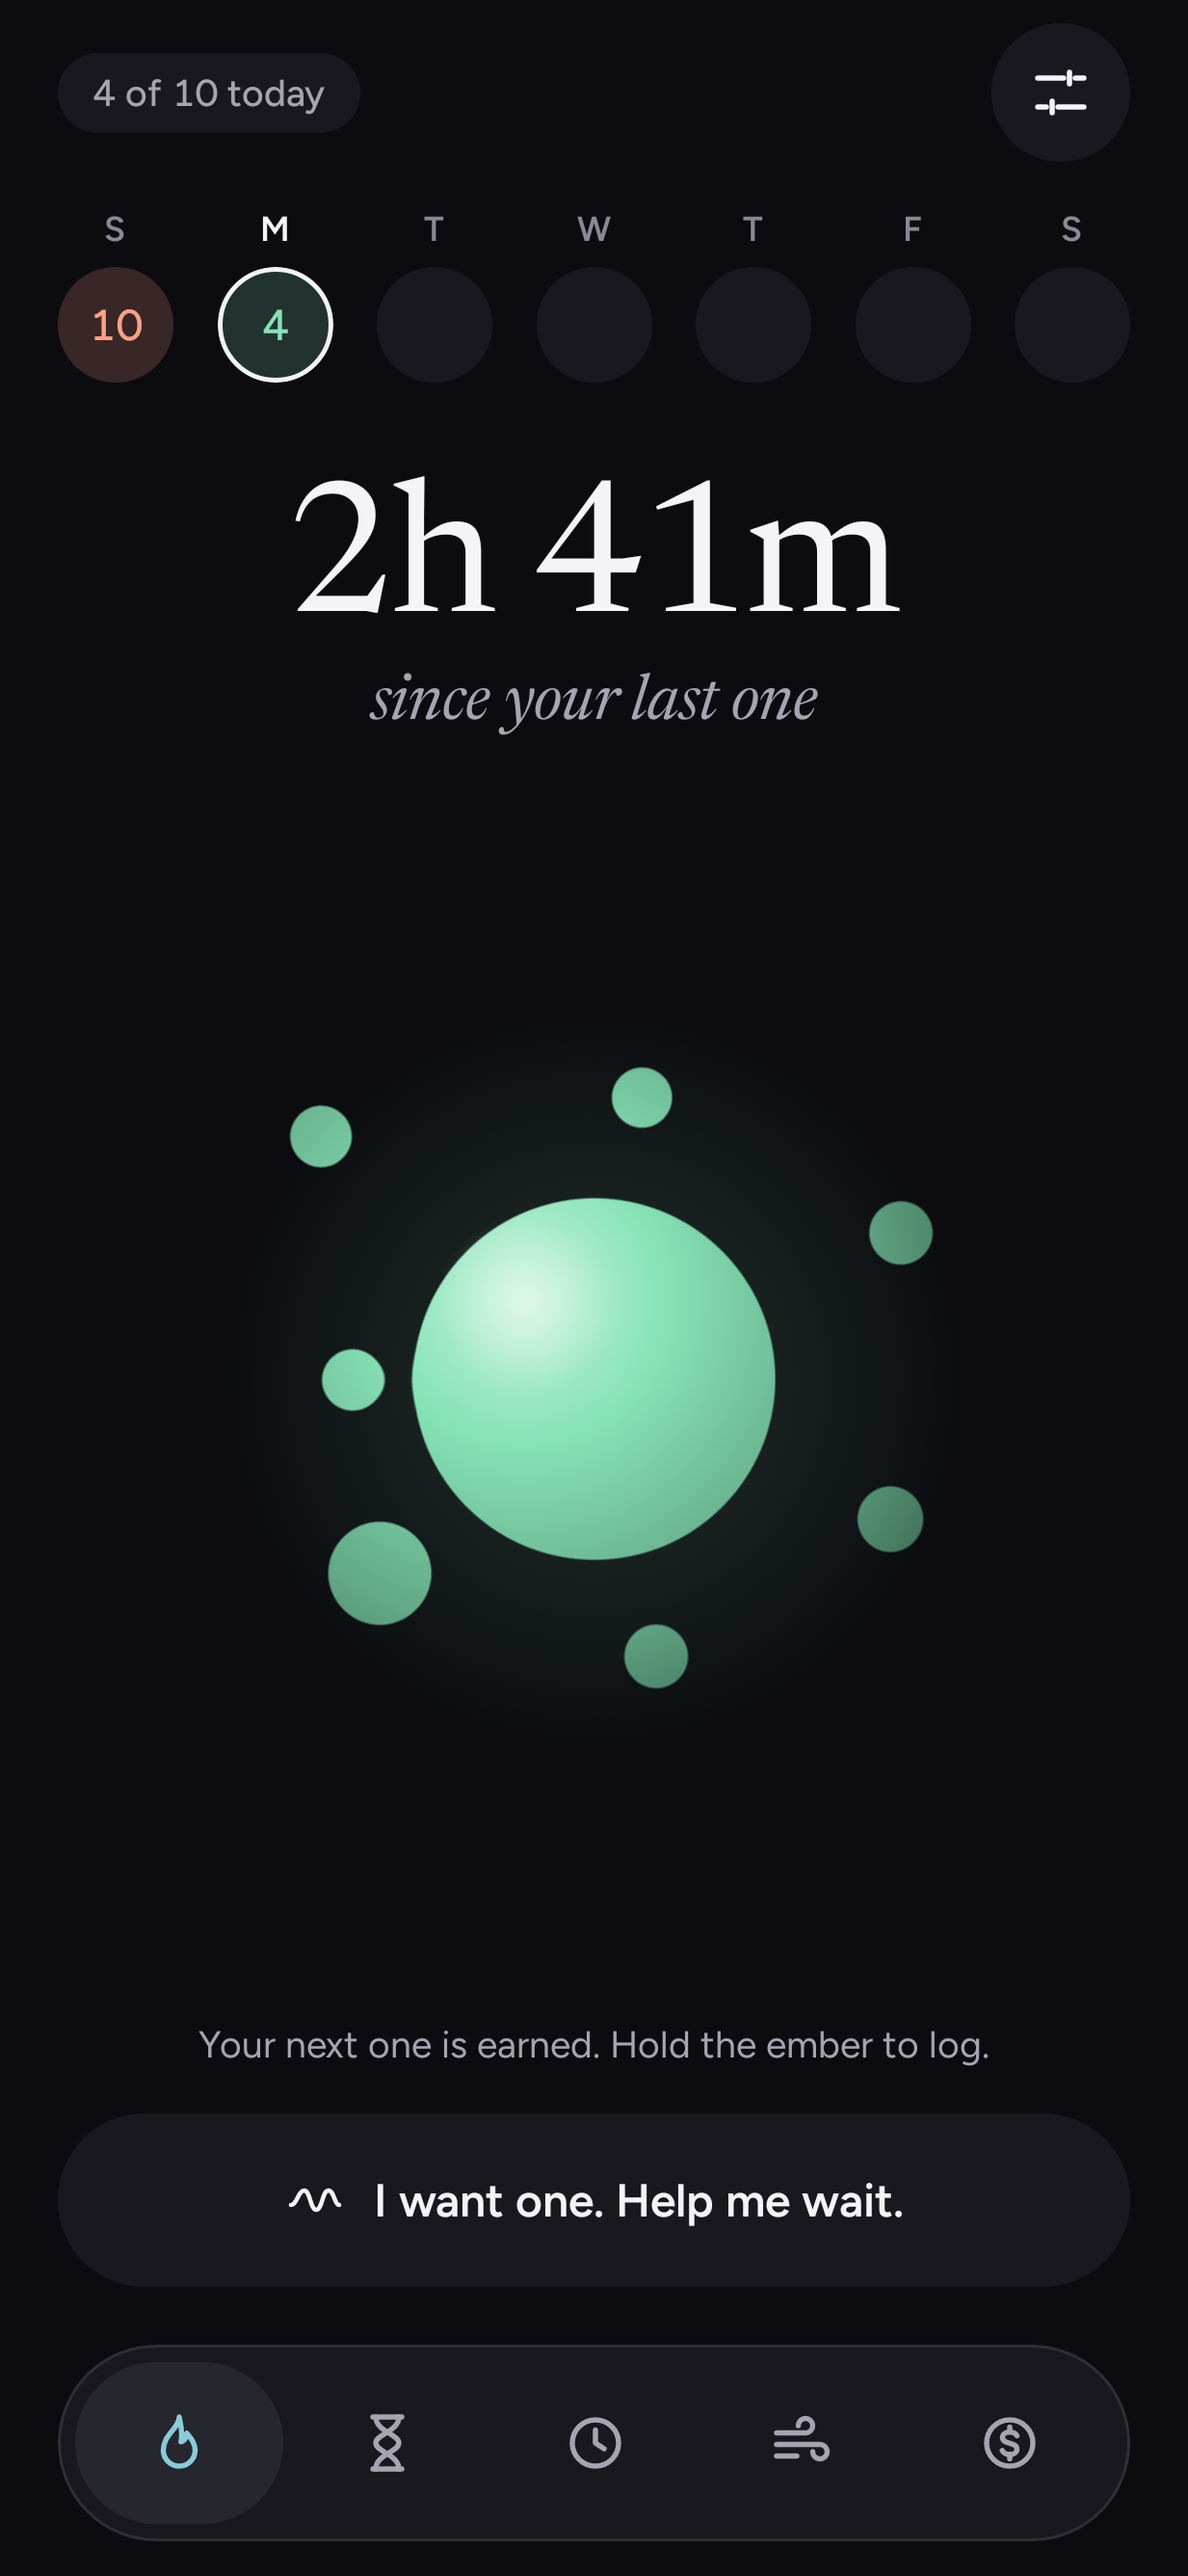
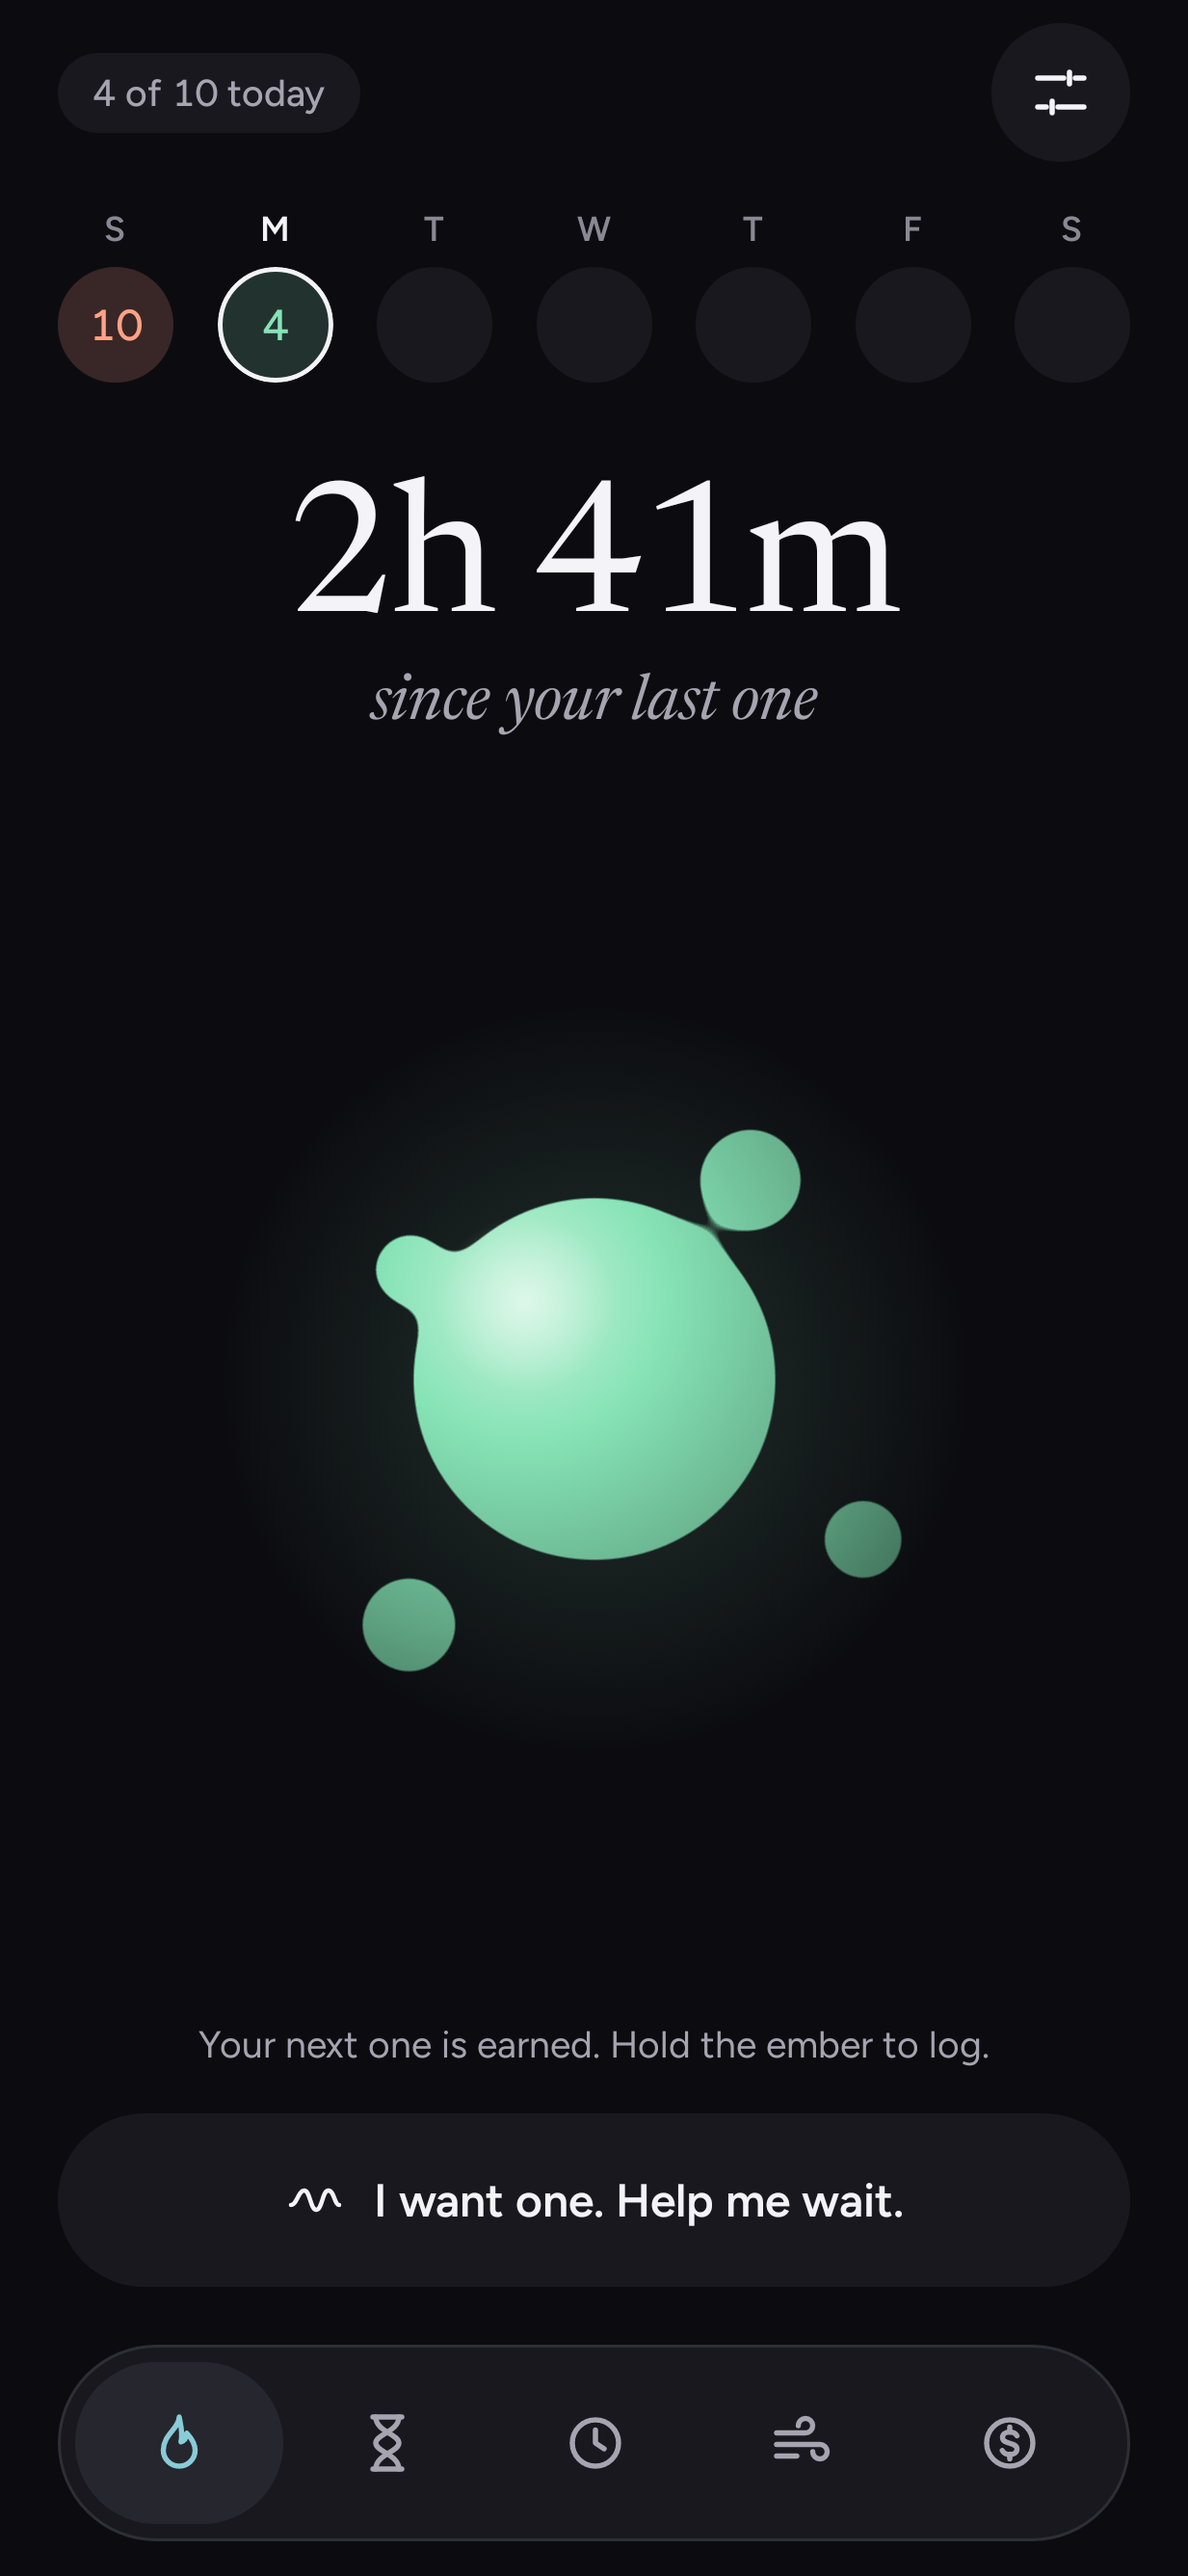
Ember: four droplets that touch the core more often; release 0.2.1
- Gather ember now has 4 droplets with fixed orbits instead of 7
- Each drop's rest distance is set from its size so it melts into the
  core about a third of its 12.6 s drift cycle, staggered so touches
  take turns
- Ember Lab uses the same four drops, so the lab and app match
- Spec, design system and screenshots updated
- Version 0.2.1

Claude-Session: https://claude.ai/code/session_018i9YmvpYAXFkse5ETN4hA7

diff --git a/app/src/main/java/app/exhale/ui/screens/EmberOrb.kt b/app/src/main/java/app/exhale/ui/screens/EmberOrb.kt
@@ -48,10 +48,9 @@ import kotlin.math.PI
 import kotlin.math.cos
 import kotlin.math.pow
 import kotlin.math.sin
-import kotlin.random.Random
 
 /*
- * "Gather": the ember as a molten core with droplets orbiting it, ported 1:1 from the Ember Lab.
+ * "Gather": the ember as a molten core with four droplets orbiting it, ported 1:1 from the Ember Lab.
  * At rest the core pulses every 4 s and the drops drift in and out, sometimes touching the core
  * and merging with a liquid bridge. Holding pulls them in until they merge and the core swells;
  * a log flings them back out with a ring and a splash of droplets.
@@ -75,18 +74,17 @@ val EmberSize: Dp = 300.dp
 
 private class Drop(val angle: Float, val dist: Float, val size: Float, val speed: Float, val bob: Float)
 
-/** Seven drops with fixed, slightly irregular orbits (seeded so the layout is stable). */
-private val DROPS: List<Drop> = Random(11).let { r ->
-    List(7) { i ->
-        Drop(
-            angle = i / 7f * TAU + r.nextFloat() * 0.4f,
-            dist = 1.55f + r.nextFloat() * 0.35f,
-            size = 0.16f + r.nextFloat() * 0.14f,
-            speed = 0.12f + r.nextFloat() * 0.1f,
-            bob = r.nextFloat() * TAU,
-        )
-    }
-}
+/**
+ * Four drops with fixed orbits. Each drop's rest distance is set from its size so that, at the
+ * bottom of its slow in-and-out drift, it just reaches the core and melts into it: about a third
+ * of each 12.6 s drift cycle. The drift phases are staggered so the touches take turns.
+ */
+private val DROPS: List<Drop> = listOf(
+    Drop(angle = 0.3f, dist = 1.50f, size = 0.22f, speed = 0.12f, bob = 0f),
+    Drop(angle = 1.9f, dist = 1.56f, size = 0.26f, speed = 0.16f, bob = TAU * 0.25f),
+    Drop(angle = 3.4f, dist = 1.45f, size = 0.20f, speed = 0.14f, bob = TAU * 0.5f),
+    Drop(angle = 5.0f, dist = 1.58f, size = 0.28f, speed = 0.19f, bob = TAU * 0.75f),
+)
 
 private fun easeOut(t: Float) = 1f - (1f - t).pow(3)
 private fun easeInOut(t: Float) = if (t < 0.5f) 4f * t * t * t else 1f - (-2f * t + 2f).pow(3) / 2f
@@ -225,7 +223,7 @@ fun EmberOrbCanvas(heat: Float, hold: Float, burst: Float, breathe: Float, phase
                 drawCircle(Color.White, r, center)
                 DROPS.forEach { d ->
                     val a = d.angle + phase * d.speed
-                    val dist = r * (d.dist + 0.28f * sin(phase * 0.5f + d.bob)) * (1f - pull) * (1f + fling) + r * 0.2f * pull
+                    val dist = r * (d.dist + 0.3f * sin(phase * 0.5f + d.bob)) * (1f - pull) * (1f + fling) + r * 0.2f * pull
                     drawCircle(Color.White, r * d.size * (1f - 0.5f * pull), center + Offset(cos(a), sin(a)) * dist)
                 }
             }

diff --git a/docs/DESIGN-SYSTEM.md b/docs/DESIGN-SYSTEM.md
@@ -49,7 +49,7 @@ Exhale's own line icons: 24px grid, 1.8 stroke, round caps and joins, no fills. 
 
 - Tappable components squish to 97% on press with a spring; the tab pill and segmented thumb slide with a spring.
 - Ambient loops are slow (orb breathing 4.2s, particles drifting) and stop when the screen leaves.
-- The Ember ("Gather") is a molten core that pulses every 4s with seven droplets orbiting slowly and sometimes merging with it. Holding pulls the drops in and runs a trail around it along the heat scale; logging flings them out with a ring and a splash.
+- The Ember ("Gather") is a molten core that pulses every 4s with four droplets orbiting slowly, each touching and merging with it about a third of the time. Holding pulls the drops in and runs a trail around it along the heat scale; logging flings them out with a ring and a splash.
 - Each haptic has one meaning: rising ticks = charging the hold (12 over 1.5s), thud = logged, double tick = next one earned, low tick = breath phase change. Every pattern checks that the phone supports it and falls back to plain vibration, so it works on Samsung and Xiaomi phones too.
 
 ## Themes

diff --git a/docs/SPEC.md b/docs/SPEC.md
@@ -78,7 +78,7 @@ First launch shows **Onboarding** (§3.7).
 - Header: today's count / allowance (Flare when at/over), Settings link.
 - Hero: time since last cigarette (`Fmt.gap`), subline with time until next earned.
 - **Orb** (`EmberOrb.kt`, concept "Gather" from the Ember Lab): a molten core coloured by `heat`
-  with seven droplets orbiting it. At rest the core pulses every 4 s and the drops drift in and out,
+  with four droplets orbiting it. At rest the core pulses every 4 s and the drops drift in and out,
   sometimes touching the core and merging with a liquid bridge (blur + alpha threshold RenderEffect,
   Android 12+; plain drops below that).
 - **Hold to log**: press 1.5 s. The drops are pulled in and merge, the core swells and warms, a
